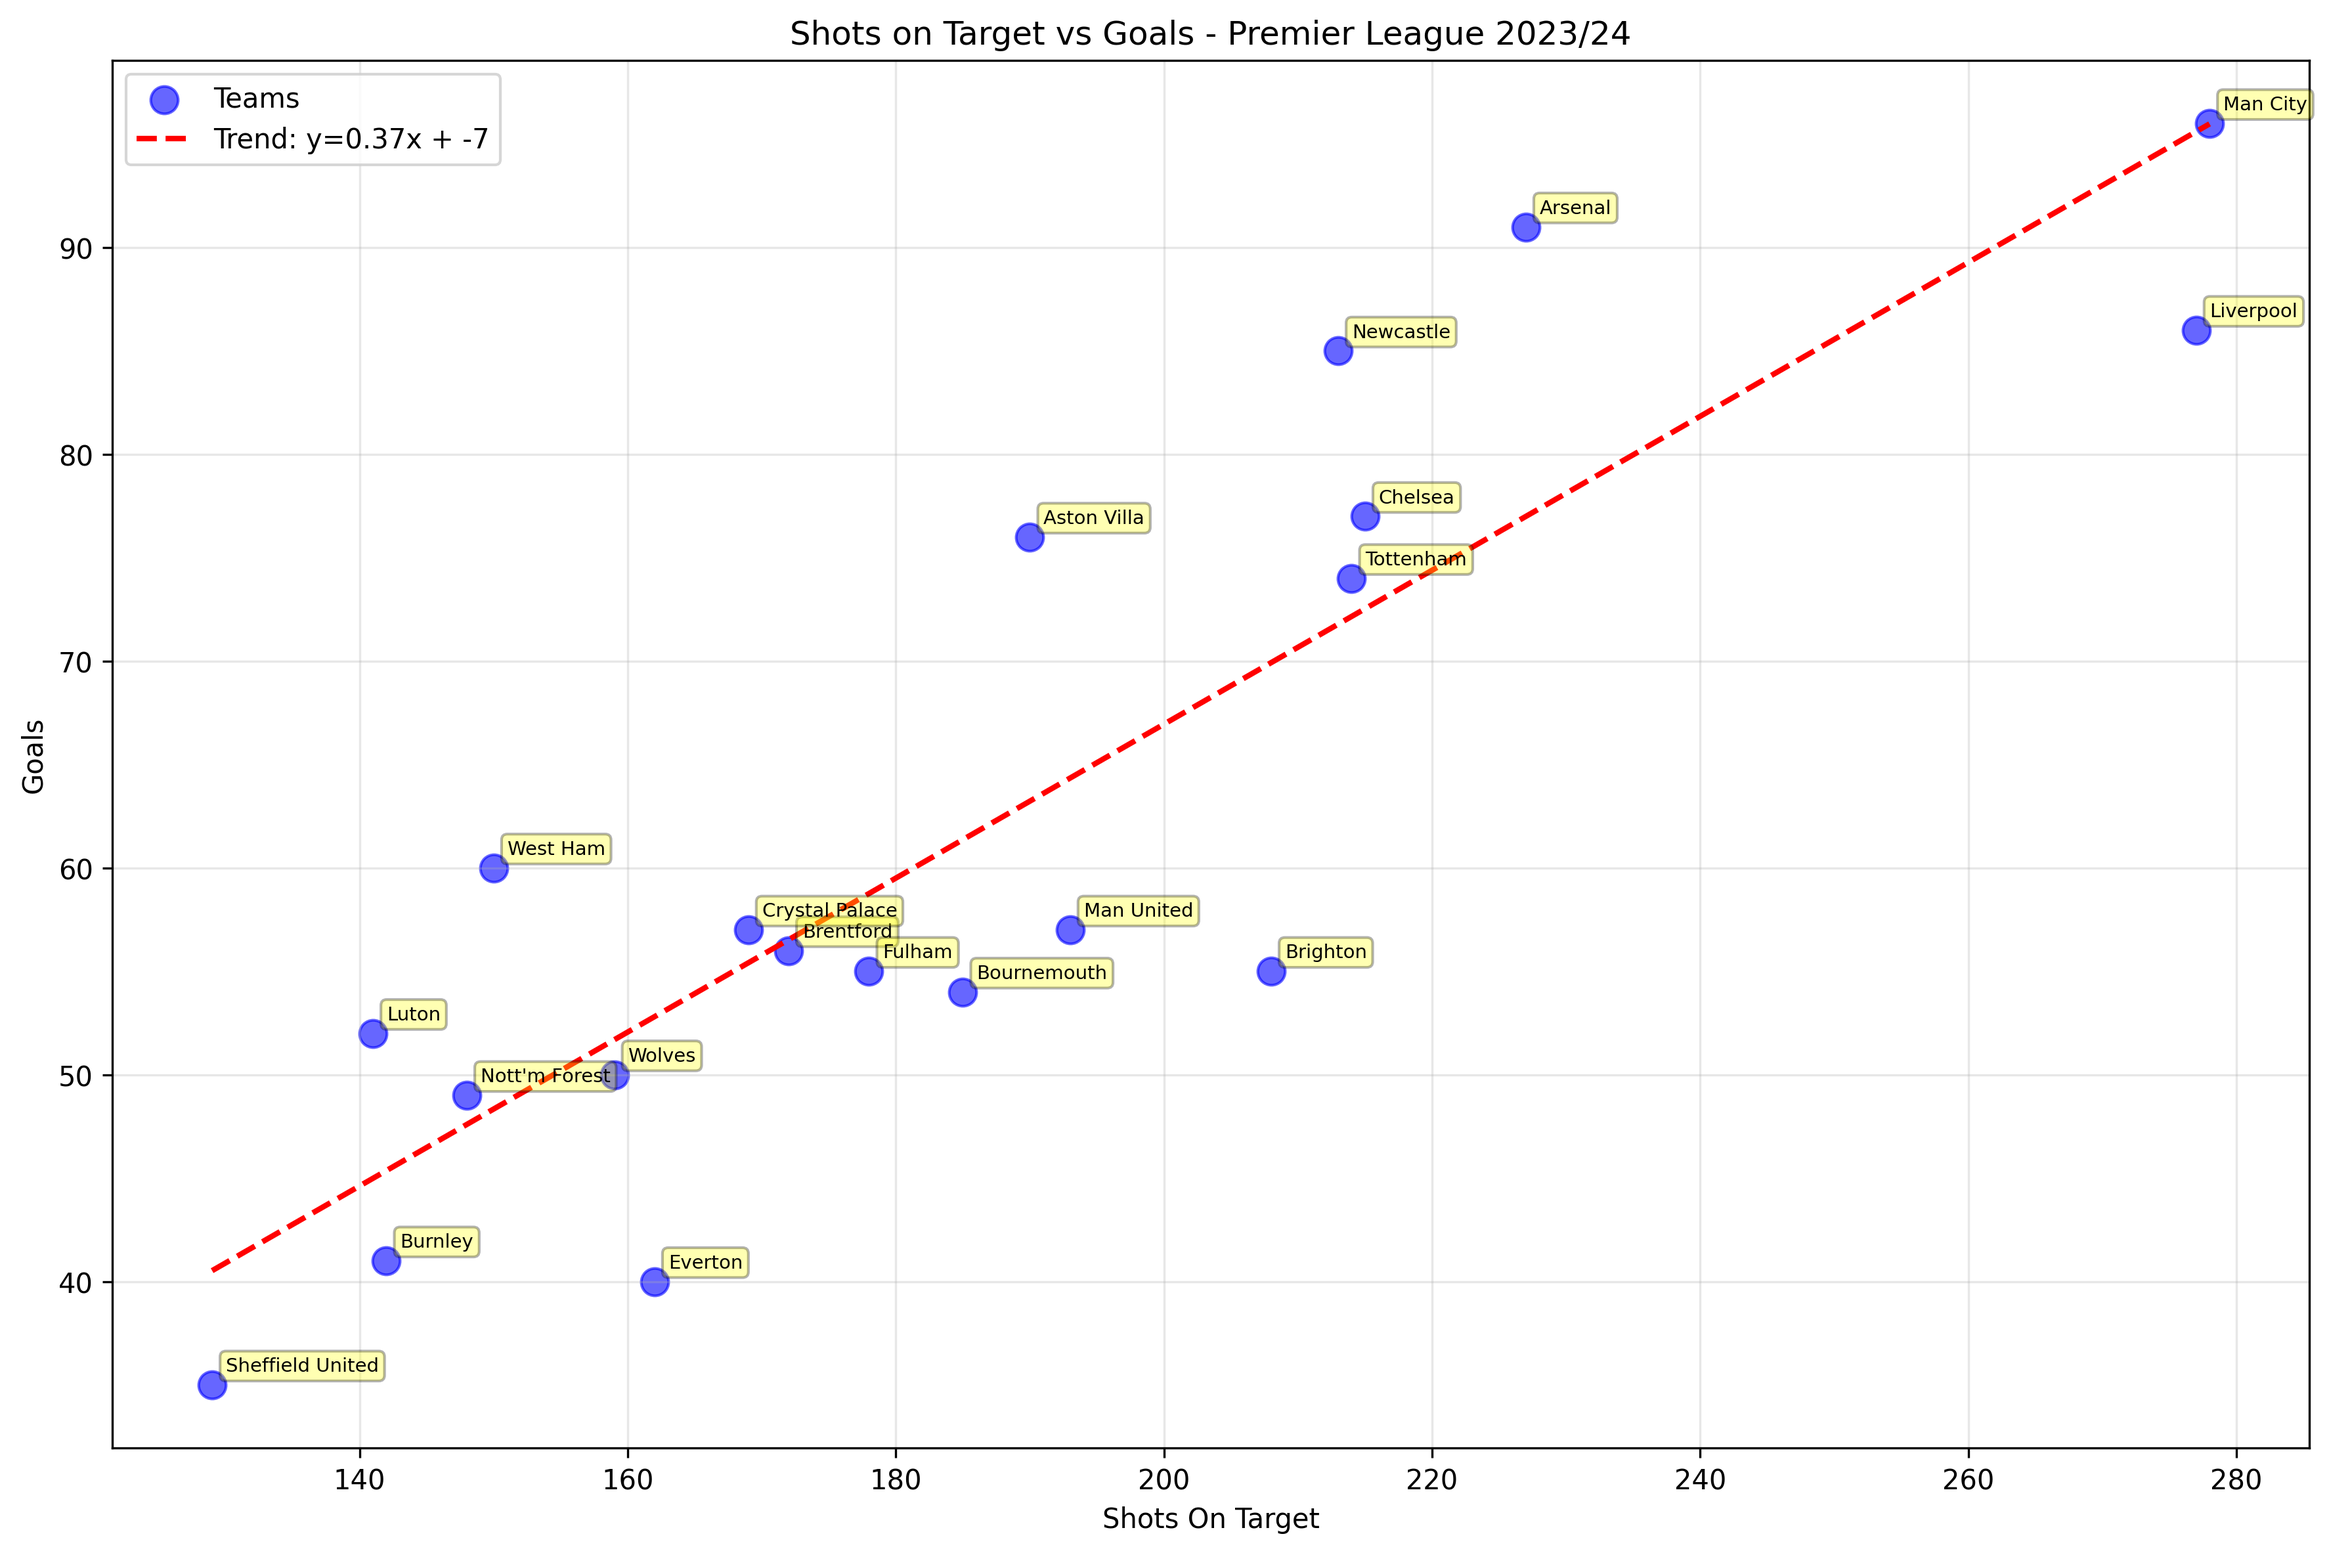
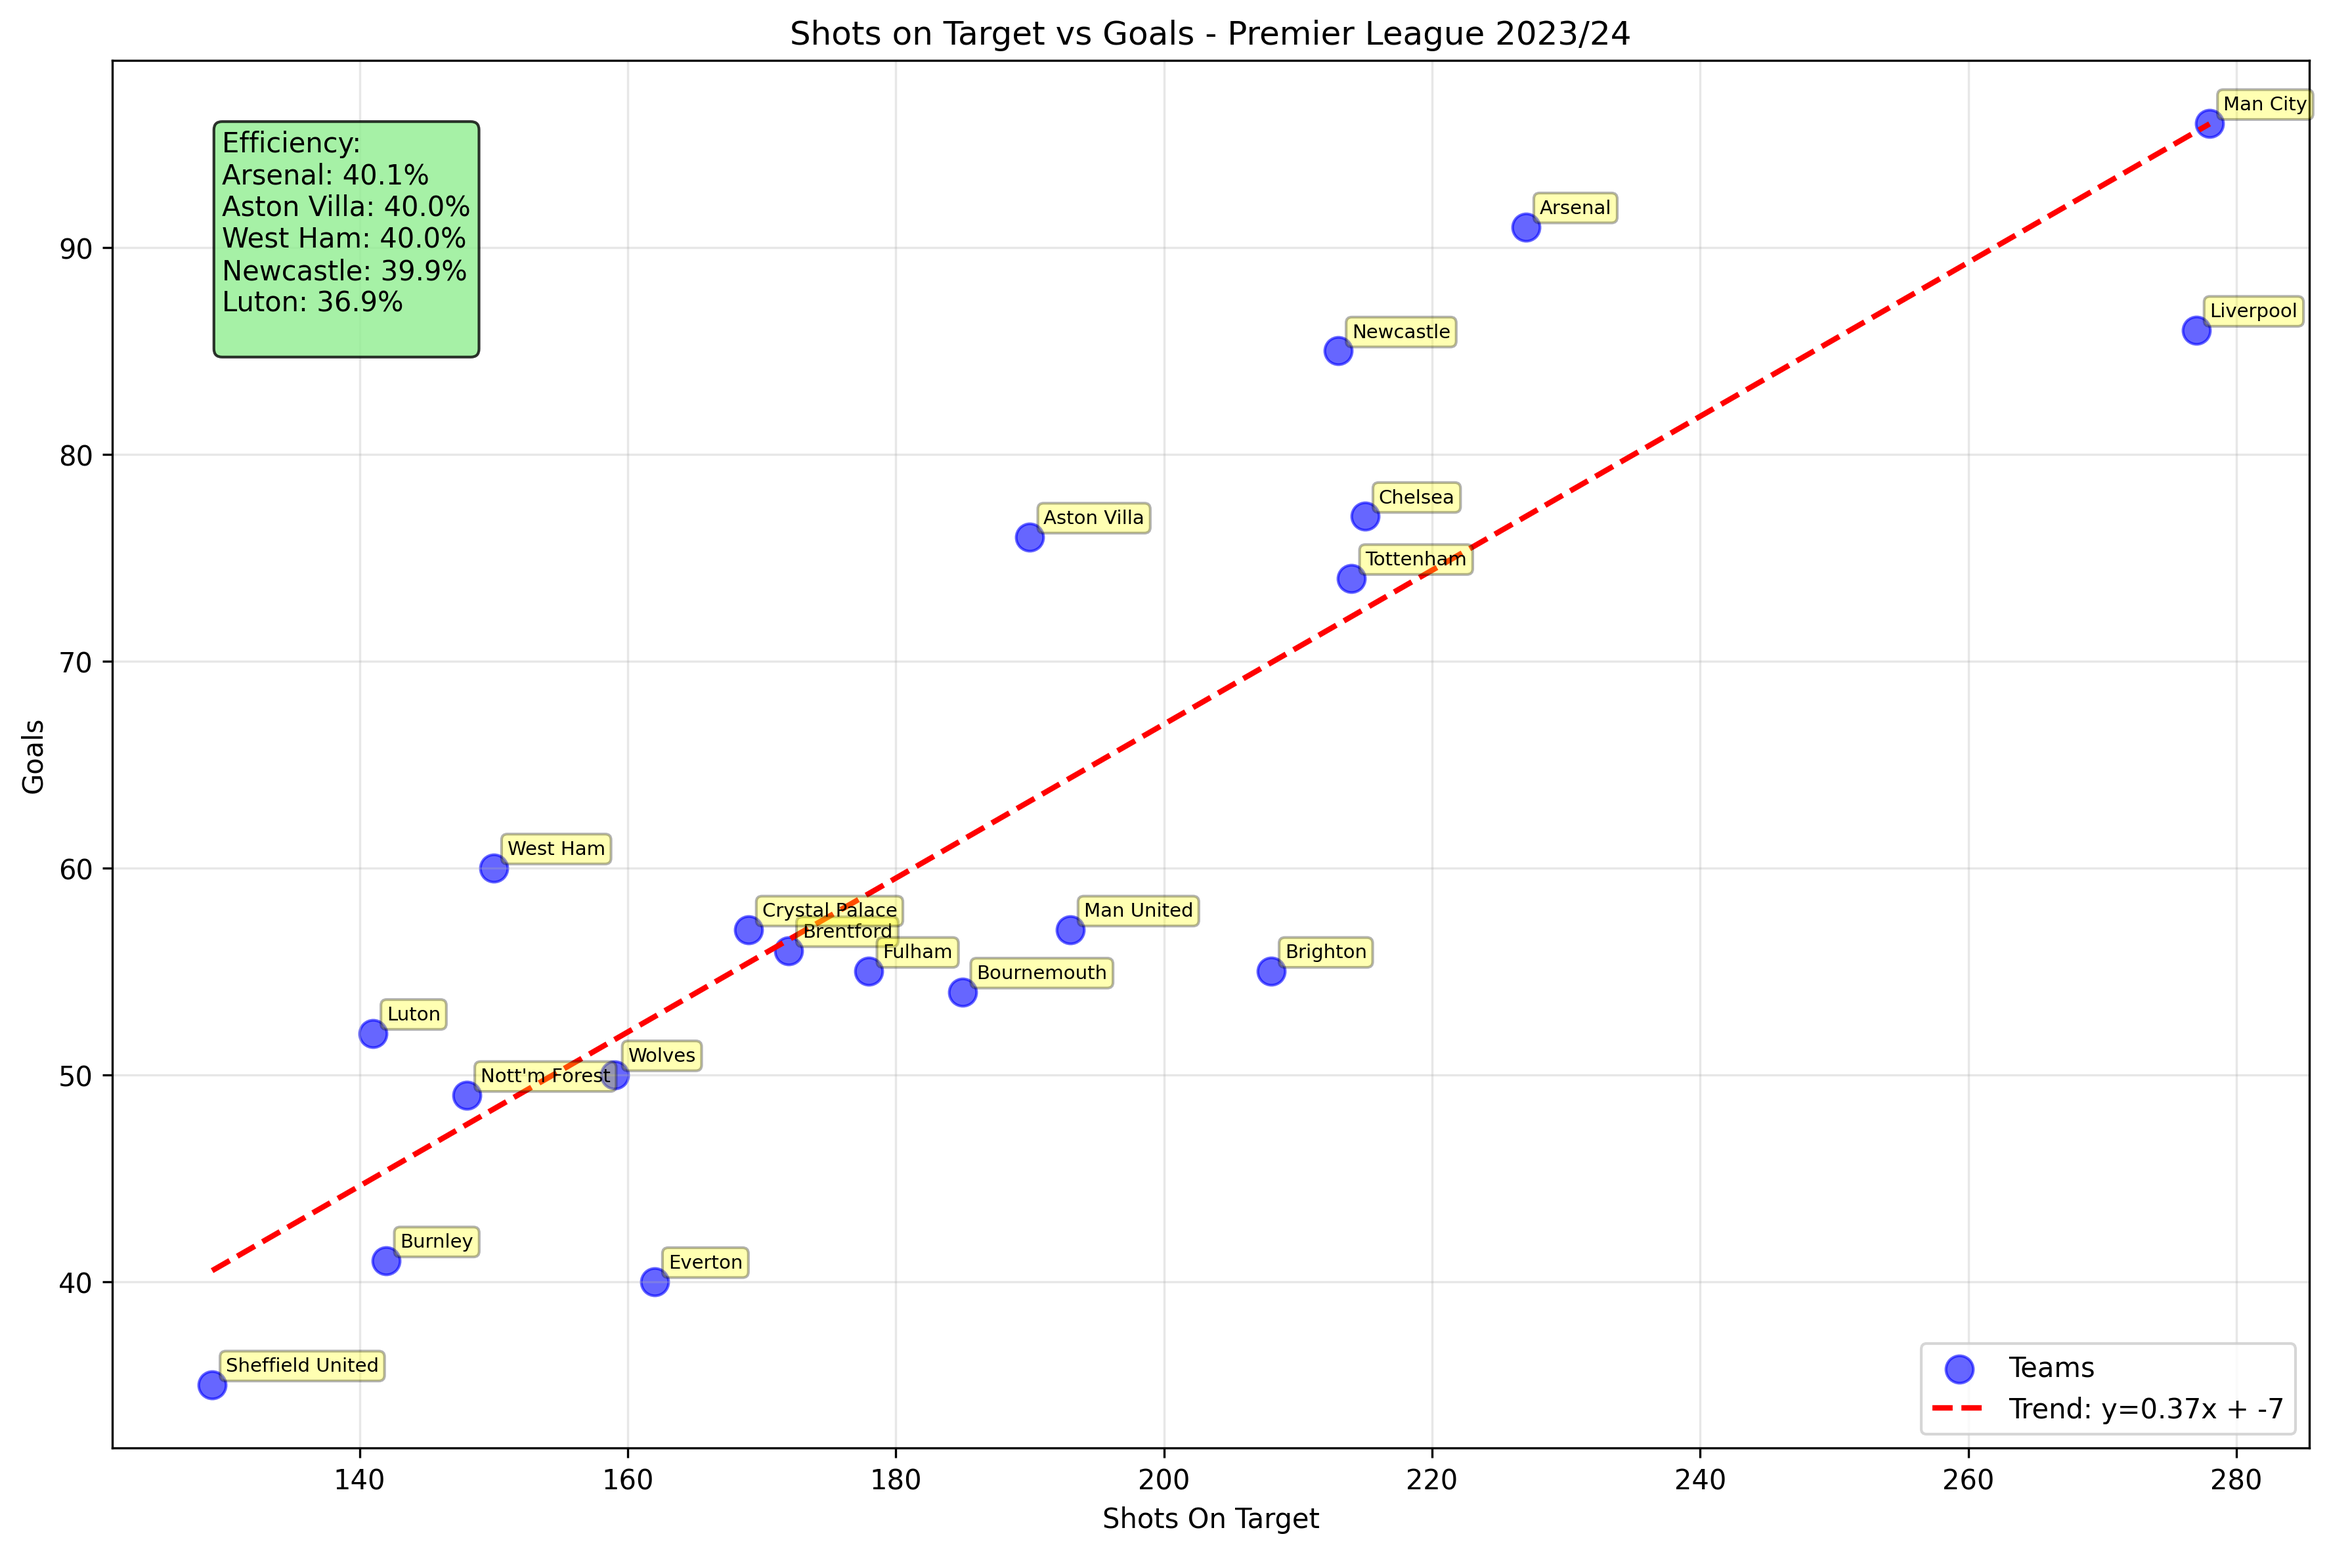
Updated Tasks 3.2 and 4.1 - Efficiency added on 3.2

Changed region(s): [[0.062, 0.0309, 0.2171, 0.2469], [0.8373, 0.8643, 0.9924, 0.926]]

diff --git a/src/visualise_shots_vs_goals.py b/src/visualise_shots_vs_goals.py
@@ -23,9 +23,16 @@ df_casa_fora = pd.concat([df_casa, df_fora])
 
 #Agrupar por equipa e somar "Goals" e "ShotsOnTarget"
 stats_goals_goals_ST = df_casa_fora.groupby("Team")[["Goals", "ShotsOnTarget"]].sum()
-print(stats_goals_goals_ST)
 
+#EFICIÊNCIA ;; Eficiencia = (GOLOS / REMATES ENQUADRADOS) * 100
 
+# Calcular E adicionar ao DataFrame
+stats_goals_goals_ST['Efficiency'] = (
+    stats_goals_goals_ST["Goals"] / 
+    stats_goals_goals_ST["ShotsOnTarget"]
+) * 100
+
+top5 = stats_goals_goals_ST.sort_values("Efficiency", ascending=False).head(5)
 
 #GRAFICO DISPERSAO - REMATES vs GOLOS
 
@@ -43,9 +50,7 @@ b = coeficientes[1]
 linha_x = np.array([x.min(), x.max()])
 linha_y = m * linha_x + b
 
-
-
-
+#Scatter
 plt.scatter(x, y, s=100, alpha=0.6, color='blue', label='Teams')
 
 #LINHA DE TENDÊNCIA PLOTTED
@@ -65,6 +70,17 @@ for equipa in stats_goals_goals_ST.index:
         bbox=dict(boxstyle='round,pad=0.3', facecolor='yellow', alpha=0.3)
     )
 
+#EFICIÊNICA NO PLOT
+top5_eff = "Efficiency: \n"
+for equipa in top5.index:
+    eficiencia = top5.loc[equipa, "Efficiency"]
+
+    top5_eff += f"{equipa}: {eficiencia:.1f}%\n"
+
+plt.text(0.05, 0.95, top5_eff,
+         transform=plt.gca().transAxes,
+         verticalalignment='top',
+         bbox=dict(boxstyle='round', facecolor = "lightgreen", alpha=0.8))
 
 plt.xlabel("Shots On Target")
 plt.ylabel("Goals")

diff --git a/src/goals_analysis.py b/src/goals_analysis.py
@@ -2,10 +2,6 @@ import pandas as pd
 
 df = pd.read_csv("data/premier_league.csv")
 
-
-
-
-
 #Criar coluna TotalGoals
 df['TotalGoals'] = df['FTHG'] + df['FTAG']
 
@@ -15,11 +11,6 @@ media_golos_jogo = df["TotalGoals"].mean()
 #Média de golos por equipa
 media_golos_equipa_casa = df.groupby("HomeTeam")['FTHG'].mean()
 media_golos_equipa_fora = df.groupby("AwayTeam")['FTAG'].mean()
-
-
-
-
-
 
 
 #Jogo com mais golos
